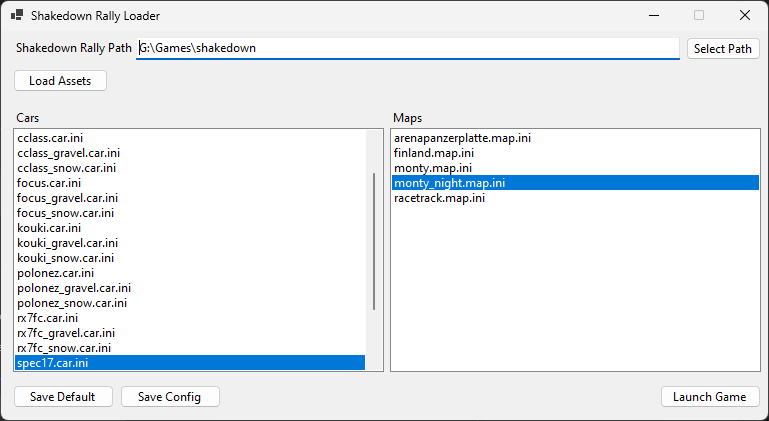
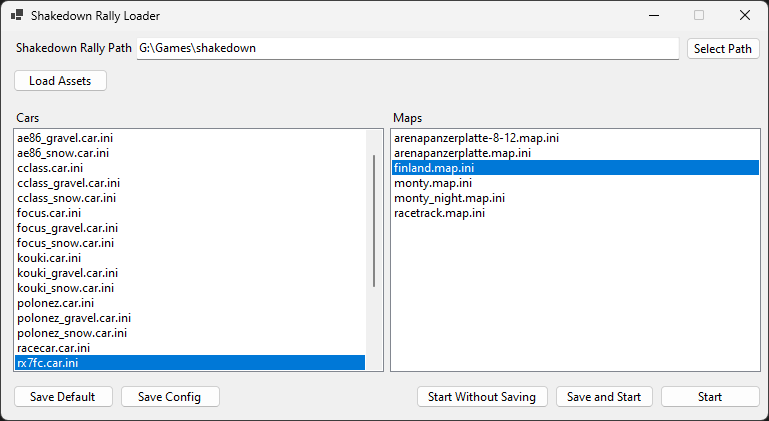
Updating README.

diff --git a/README.md b/README.md
@@ -17,6 +17,12 @@
 - Click "Select Path" and find your "shakedown" folder (eg.: `G:\Games\shakedown`)
 - Click "Load Assets" to search the game folder for maps and cars
 - Select car and map you want to use
-- Click "Save Config" to save current choices
-- Click "Launch Game"
+- To run the game you have 3 options:
+  - Saving the config first and then start the game:
+    - Click "Save Config" to save current choices
+    - Click "Start"
+  - Save the config and launch at the same time:
+    - Click "Save and Start"
+  - Start the game without saving the config (but using the selected car and map):
+    - Click "Start Without Saving"
 - If you want to go back to the default car and map, click "Save Default"
